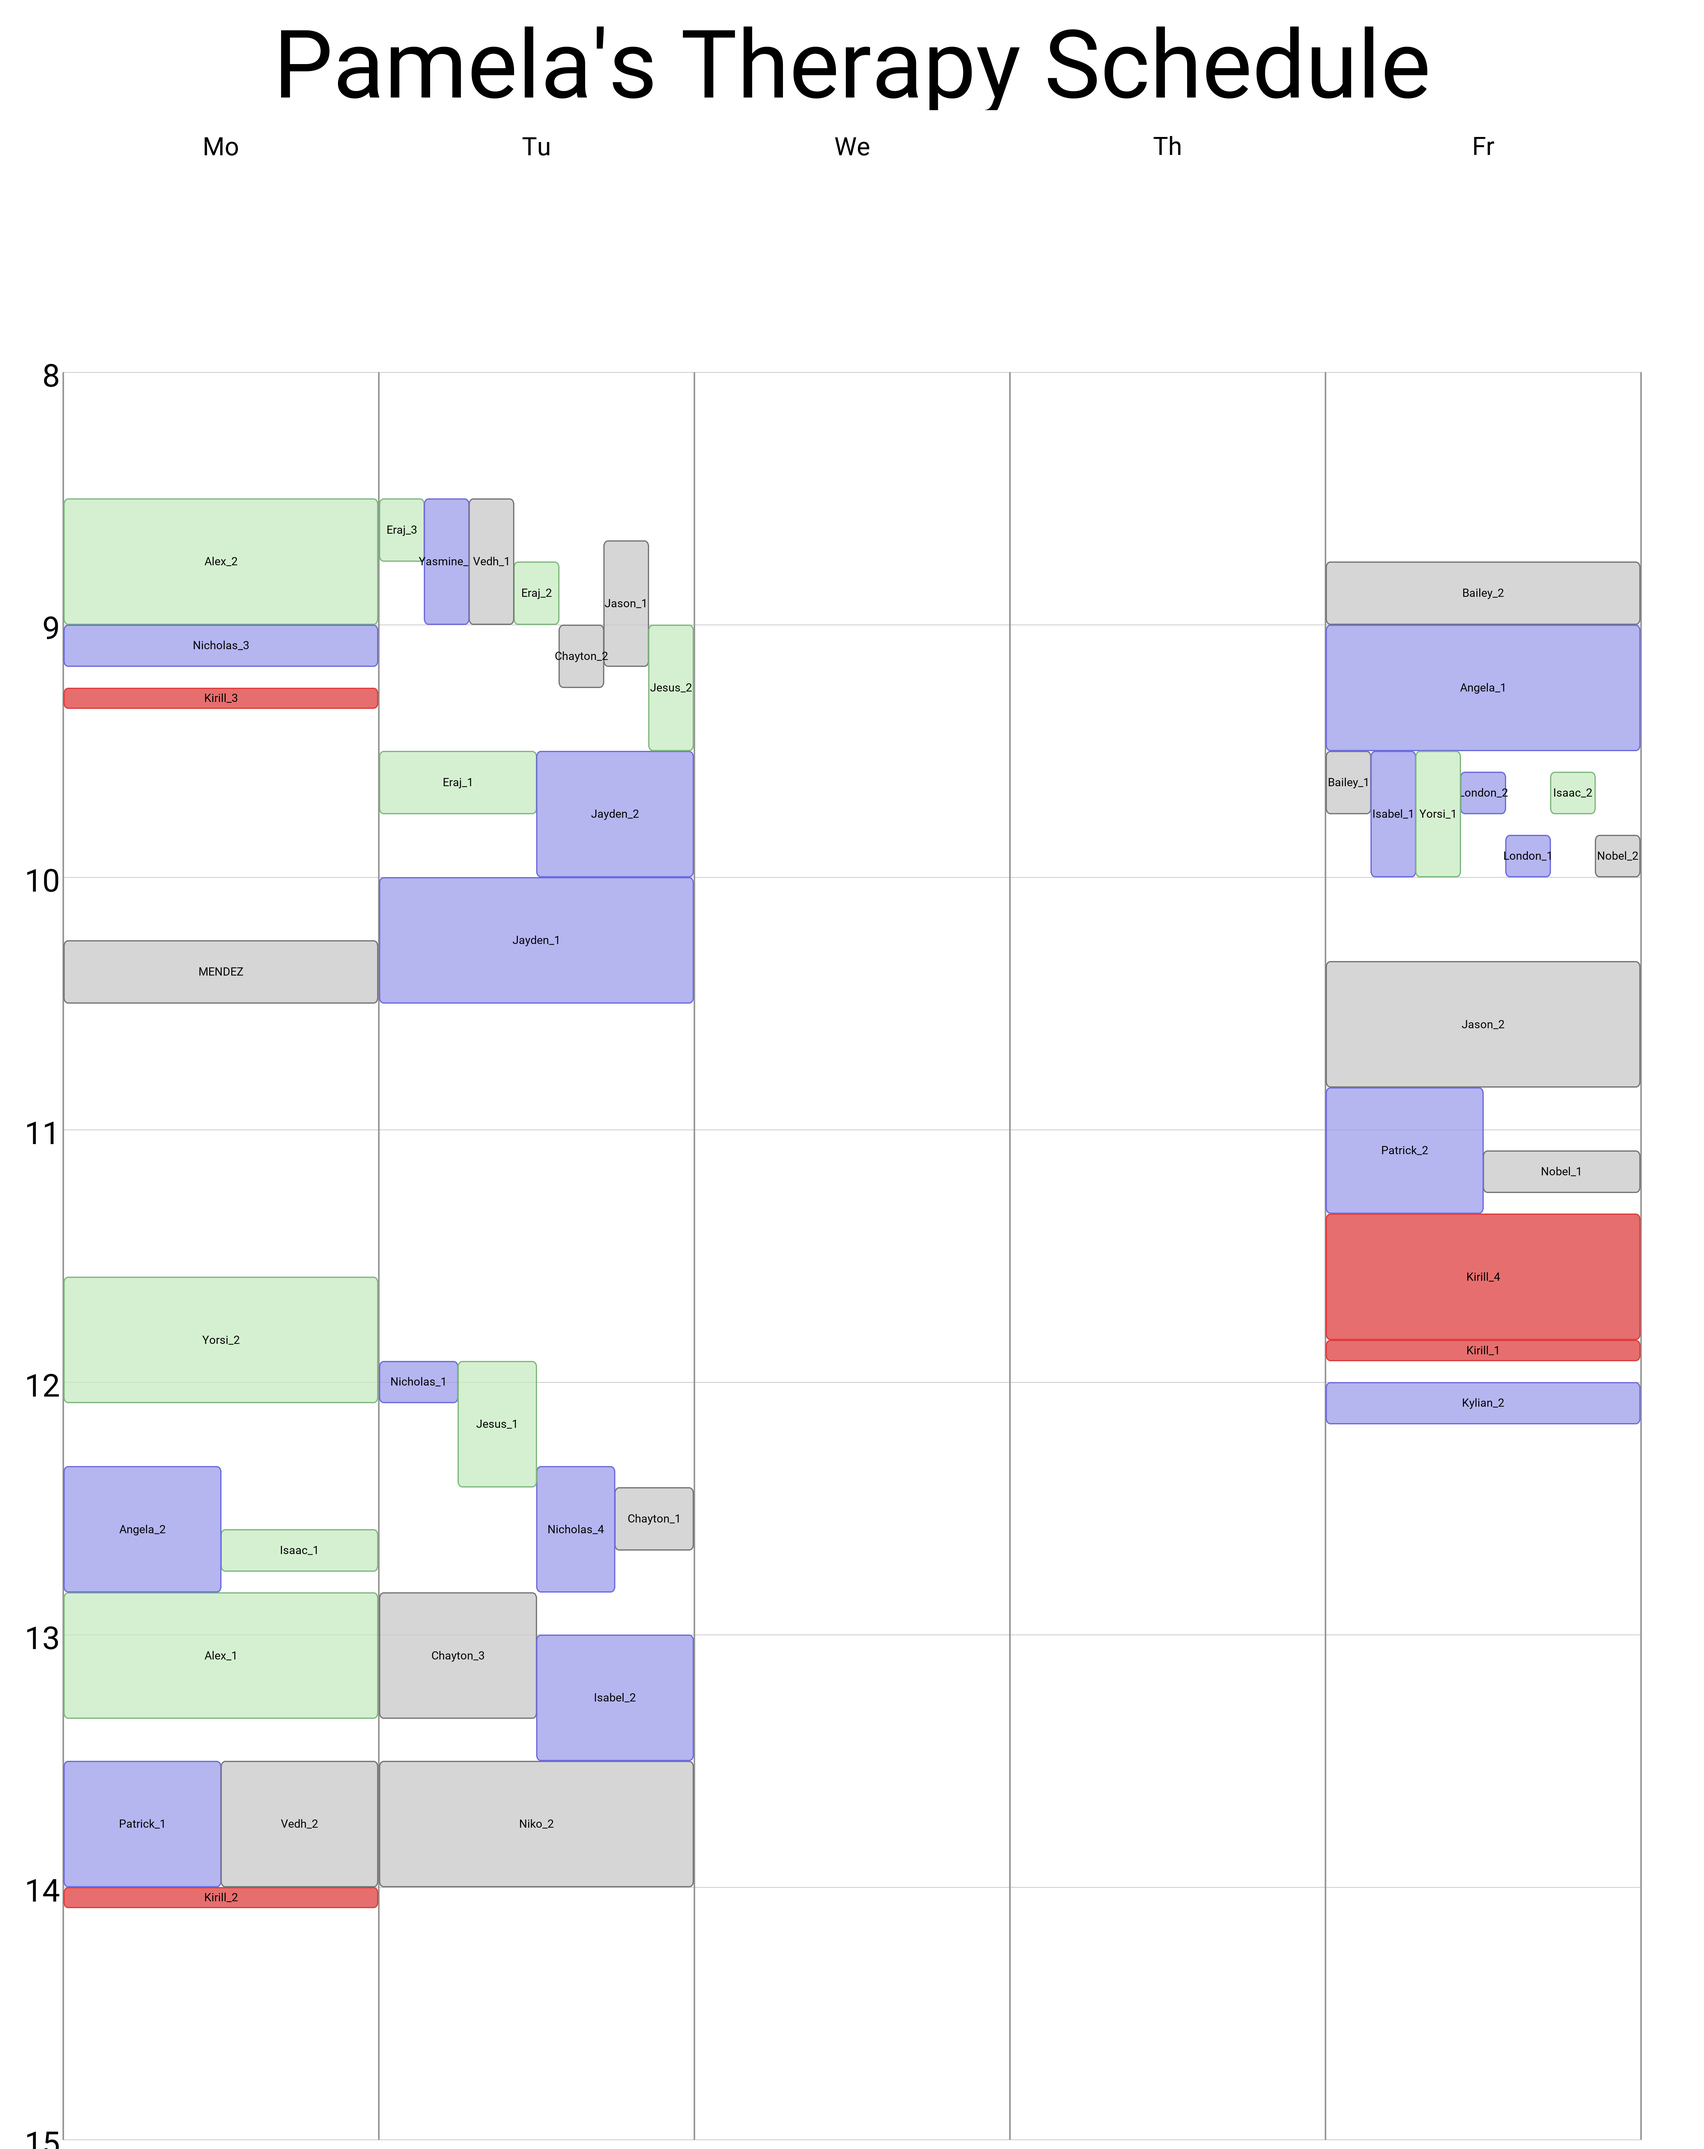
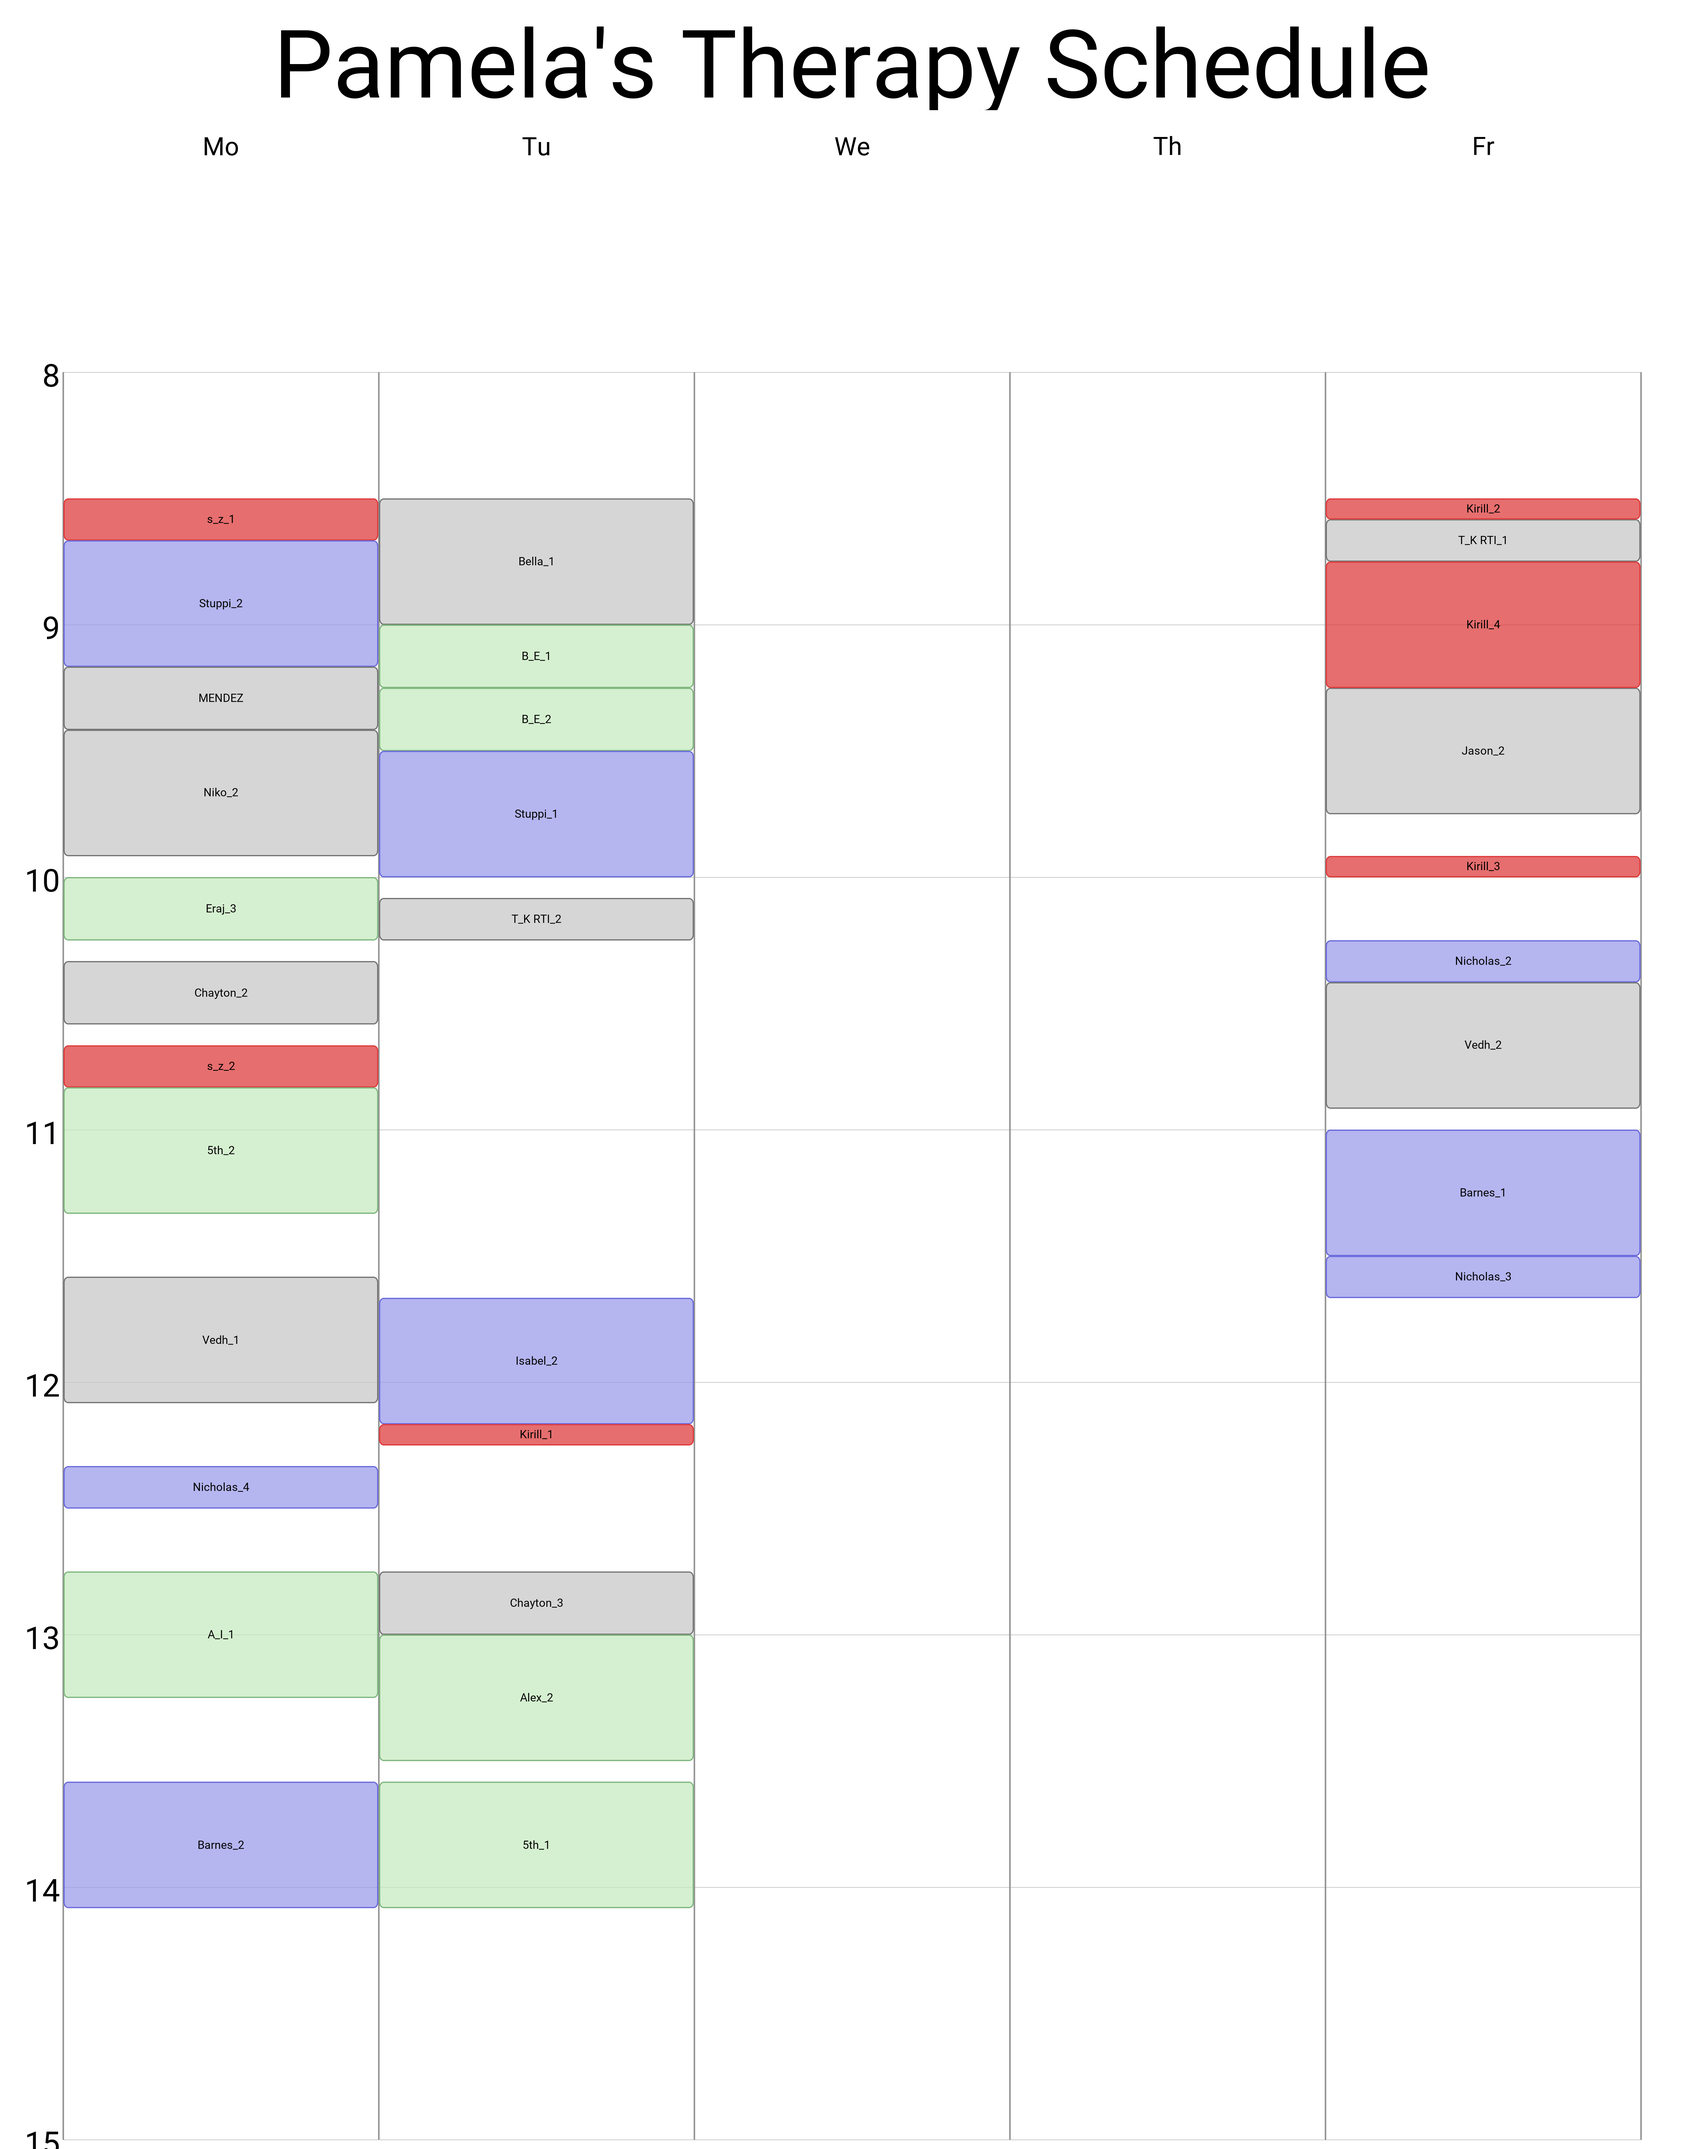
second iteration

Changed region(s): [[0.0311, 0.2179, 0.4044, 0.9029], [0.7778, 0.2179, 0.9644, 0.467], [0.7778, 0.4982, 0.9644, 0.685]]

diff --git a/schedule.py b/schedule.py
@@ -7,6 +7,7 @@ import matplotlib.pyplot as plt
 import pandas as pd
 import pyomo.environ as pe
 import pyomo.gdp as pyogdp
+from tqdm import tqdm
 
 from constraints import *
 from objective import *
@@ -43,13 +44,13 @@ class Scheduler:
 
         model.CASES = pe.Set(initialize=self.df_cases["Name"].tolist())
         model.SESSIONS = pe.Set(initialize=list(self.sessions.keys()))
-        model.TASKS = pe.Set(initialize=model.CASES * model.SESSIONS, dimen=2)
-        model.IS_AVAILABLE = pe.Param(
-            model.TASKS,
-            initialize=self._generate_availabilities(model.TASKS),
-            within=pe.Binary,
-        )
 
+        tasks = []
+        for case, session in model.CASES * model.SESSIONS:
+            if self._check_if_available(case, session):
+                tasks.append((case, session))
+
+        model.TASKS = pe.Set(initialize=tasks, dimen=2)
         model.CASE_DURATION = pe.Param(
             model.CASES, initialize=self._generate_case_durations()
         )
@@ -78,11 +79,14 @@ class Scheduler:
         model.CASE_START = pe.Constraint(model.TASKS, rule=case_start_time)
         model.CASE_END_TIME = pe.Constraint(model.TASKS, rule=case_end_time)
         model.SESSION_ASSIGNMENT = pe.Constraint(model.CASES, rule=session_assignment)
-        model.VALID_WITH_SCHEDULE = pe.Constraint(model.TASKS, rule=valid_with_schedule)
+
+        print("Starting disjunction constraints...")
 
         model.DISJUNCTIONS_RULE = pyogdp.Disjunction(
             model.DISJUNCTIONS, rule=no_case_overlap
         )
+        print("Finished disjunction constraints.")
+
         model.SESSION_UTIL = pe.Constraint(model.SESSIONS, rule=session_util)
 
         pe.TransformationFactory("gdp.bigm").apply_to(model)
@@ -153,7 +157,6 @@ class Scheduler:
                 solver_results["Problem"].__getitem__(0)["Number of constraints"]
             )
         )
-        plot_calendar(self.df_times)
 
     def plot_results(self):
         df = self.df_times
@@ -277,8 +280,8 @@ class Scheduler:
         """ """
         for window in self.student_availabilities[case]:
             if is_within_window(window, self.sessions[session]):
-                return 1
-        return 0
+                return True
+        return False
 
     def _generate_disjunctions(self, tasks):
         """
@@ -286,18 +289,32 @@ class Scheduler:
             disjunctions (list): list of tuples containing disjunctions
         """
         disjunctions = []
-        for t1, t2 in product(tasks, tasks):
-            if t1 != t2:
+        for t1, t2 in tqdm(product(tasks, tasks)):
+            if t1[0] != t2[0] and is_overlapping(
+                self.sessions[t1[1]], self.sessions[t2[1]]
+            ):
                 disjunctions.append((t1, t2))
+
+        print(f"Made {len(disjunctions)} disjunctions!")
 
         return disjunctions
 
+    def _generate_student_disjunctions(self, tasks):
+        disjunctions = []
+        for t1, t2 in tqdm(product(tasks, tasks)):
+            if t1[0] != t2[0] and is_overlapping(
+                self.sessions[t1[1]], self.sessions[t2[1]]
+            ):
+                disjunctions.append((t1, t2))
+
+        print(f"Made {len(disjunctions)} disjunctions!")
+
 
 if __name__ == "__main__":
-    case_path = os.path.join(os.getcwd(), "data", "students.xlsx")
+    case_path = os.path.join(os.getcwd(), "data", "students_with_groups.xlsx")
     session_path = os.path.join(os.getcwd(), "data", "availability.xlsx")
 
-    options = {"seconds": 30}
+    options = {"seconds": 1000}
     scheduler = Scheduler(
         student_file_path=case_path, availability_file_path=session_path
     )

diff --git a/constraints.py b/constraints.py
@@ -20,47 +20,32 @@ def case_end_time(model, case, session):
 def session_assignment(model, case):
     """Cases can be assigned to a maximum of one session"""
     return (
-        sum([model.SESSION_ASSIGNED[(case, session)] for session in model.SESSIONS])
+        sum([model.SESSION_ASSIGNED[task] for task in model.TASKS if task[0] == case])
         <= 1
     )
 
 
-def no_case_overlap(model, task1, task2):
-    case1, session1 = task1
-    case2, session2 = task2
+def no_case_overlap(model, case1, session1, case2, session2):
+    task1 = (case1, session1)
+    task2 = (case2, session2)
     return [
-        model.CASE_START_TIME[case1, session1] + model.CASE_DURATION[case1]
-        <= model.CASE_START_TIME[case2, session2]
+        model.CASE_START_TIME[task1] + model.CASE_DURATION[case1]
+        <= model.CASE_START_TIME[task2]
         + (
-            (
-                2
-                - model.SESSION_ASSIGNED[case1, session1]
-                - model.SESSION_ASSIGNED[case2, session2]
-            )
+            (2 - model.SESSION_ASSIGNED[task1] - model.SESSION_ASSIGNED[task2])
             * model.M
         ),
-        model.CASE_START_TIME[case2, session2] + model.CASE_DURATION[case2]
-        <= model.CASE_START_TIME[case1, session1]
+        model.CASE_START_TIME[task2] + model.CASE_DURATION[case2]
+        <= model.CASE_START_TIME[task1]
         + (
-            (
-                2
-                - model.SESSION_ASSIGNED[case1, session1]
-                - model.SESSION_ASSIGNED[case2, session2]
-            )
+            (2 - model.SESSION_ASSIGNED[task1] - model.SESSION_ASSIGNED[task2])
             * model.M
         ),
     ]
 
 
-def valid_with_schedule(model, case, session):
-    return (
-        model.IS_AVAILABLE[case, session]
-        >= 1 - (1 - model.SESSION_ASSIGNED[case, session]) * model.M
-    )
-
-
 def session_util(model, session):
     """How much of the session is utilized"""
     return model.STUDENTS_IN_SESSION[session] == sum(
-        [model.SESSION_ASSIGNED[case, session] for case in model.CASES]
+        [model.SESSION_ASSIGNED[task] for task in model.TASKS if task[1] == session]
     )

diff --git a/plotting.py b/plotting.py
@@ -6,10 +6,9 @@ from calendar_view.core.event import Event, EventStyles
 from PIL import ImageFont
 from pkg_resources import resource_filename
 
-font_path: str = "Roboto-Regular.ttf"
-
 
 def image_font(size: int):
+    font_path: str = "Roboto-Regular.ttf"
     path: str = resource_filename("calendar_view.resources.fonts", font_path)
     return ImageFont.truetype(path, size)
 

diff --git a/utils.py b/utils.py
@@ -11,3 +11,7 @@ def day_and_time_to_mins(day, time):
 
 def is_within_window(test_window, other_window):
     return test_window[0] >= other_window[0] and test_window[1] <= other_window[1]
+
+
+def is_overlapping(test_window, other_window):
+    return test_window[0] <= other_window[1] and test_window[1] >= other_window[0]
